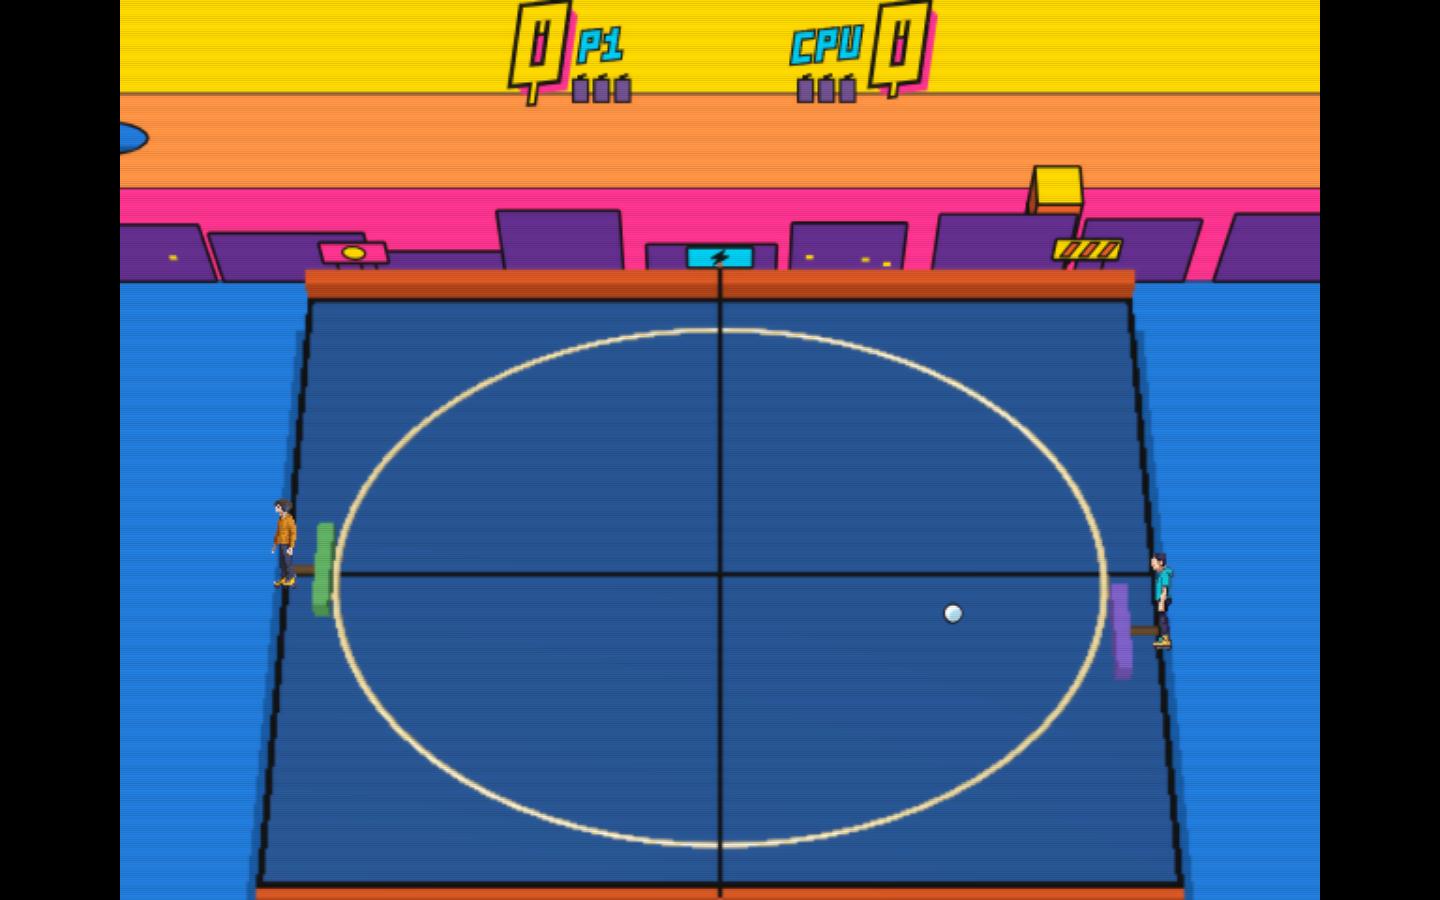
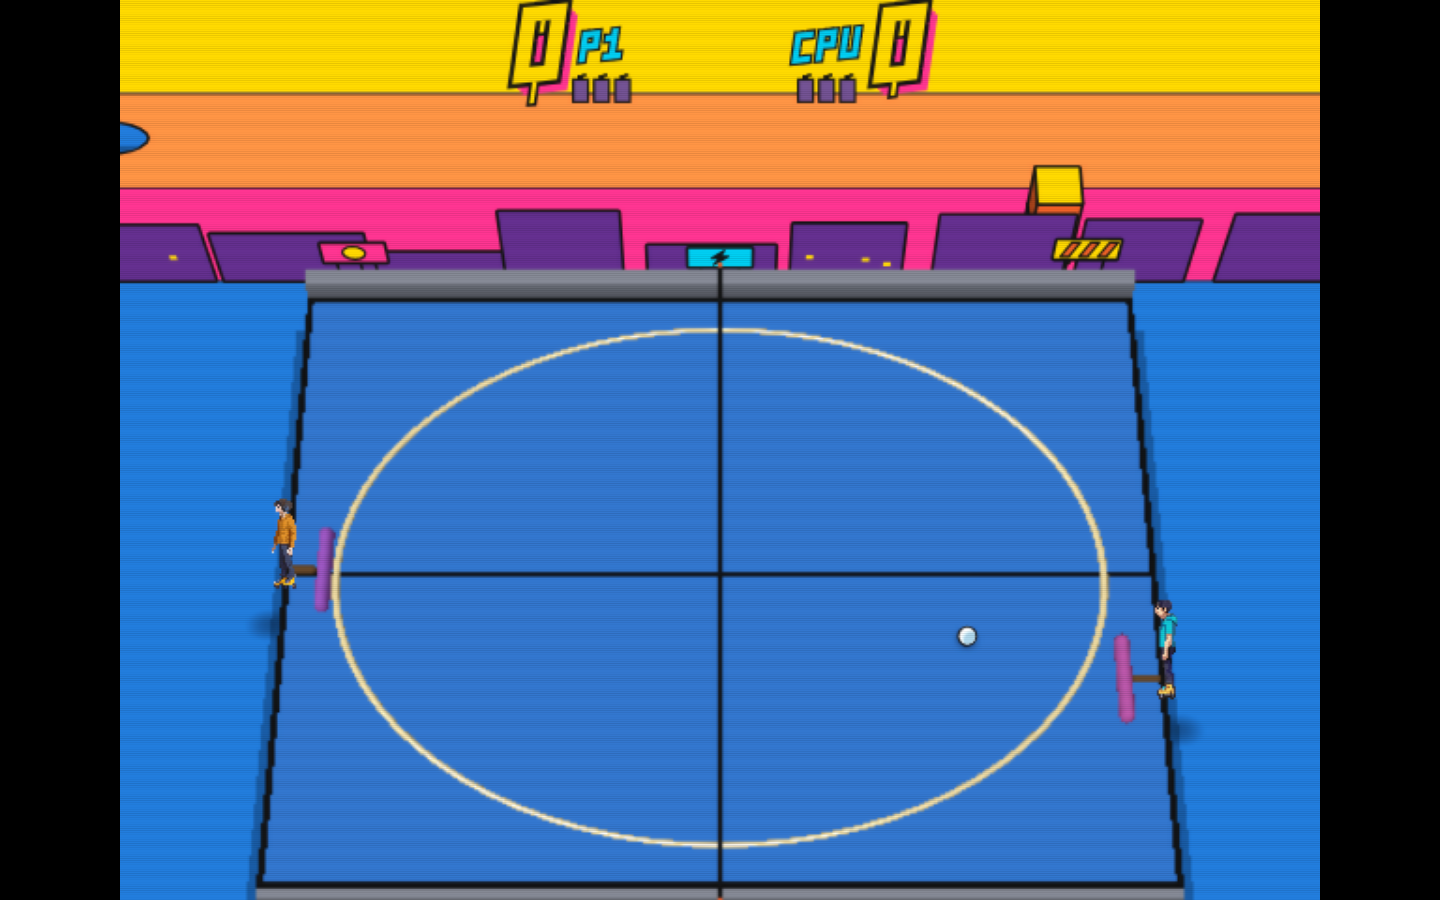
item 1293: the 1999 stage takes over the slab material era 6 hands it
Era 6's fieldSetup (landed while this ran) puts its own textured material on
the slab mesh, so parts.surfaceMat is no longer what the table is painted with:
era 7 dresses parts.slab.material when the two differ, sets its colour rather
than stacking a second emissive lift on era 6's (which blew the table out to a
field mean of 203 of 255), and takes the N64 grain off every frame. Final
after-frame: field colours 19564, mean brightness 121.2, brightest pixel on the
ball. Lessons page updated with both wrong turns.

diff --git a/src/eras/era7-dreamcast.js b/src/eras/era7-dreamcast.js
@@ -68,6 +68,9 @@
   // remembered for. See docs/lessons/era7-dreamcast.md.
   var STAGE = {
     slab: { lift: '#10407e', specular: '#9ad7ff', shininess: 90 },
+    // The same stage, when era 6 handed the slab mesh a material of its own: the
+    // colour is ours to set there, so the lift only has to carry the gleam.
+    stage: { colour: '#2f74d6', lift: '#08203f', specular: '#9ad7ff', shininess: 90 },
     net: { colour: '#eaf6ff', lift: '#2b5f92', specular: '#ffffff', shininess: 60 },
     // The bats keep the colour the session earned (R4), so their lift is only a
     // little off black and their gleam is grey: a white specular at the
@@ -436,7 +439,15 @@
     return true;
   }
 
-  var stage = { mats: null, ring: null };
+  /** Take a texture map off a shared material: the 1999 picture is clean and sharp. */
+  function clearGrain(mat) {
+    if (!mat || !mat.map) return false;
+    mat.map = null;
+    if (mat.needsUpdate !== undefined) mat.needsUpdate = true;
+    return true;
+  }
+
+  var stage = { mats: null, slabMat: null, ring: null };
 
   /**
    * This era's work inside the shared 3D scene, called from draw() before
@@ -454,15 +465,31 @@
       try { six.fieldSetup(I, state); } catch (e) { /* era 6 owns its own errors */ }
     }
     var p = I.parts;
-    var fresh = stage.mats !== p.surfaceMat;
+    // Era 6 (which ran just above) may have put its own textured material on the
+    // slab mesh, so the material to dress is the one the mesh is wearing NOW.
+    var slabMat = p.slab && p.slab.material ? p.slab.material : p.surfaceMat;
+    var fresh = stage.mats !== p.surfaceMat || stage.slabMat !== slabMat;
     if (fresh) {
       dress(p.surfaceMat, STAGE.slab);
+      // Era 6's own slab material is already lifted, so stacking era 7's lift on
+      // it blew the table out to white (measured: field mean 203 of 255). Taking
+      // it over means setting its colour -- which is safe, because pose() writes
+      // only `surfaceMat.color`, not the mesh's material when era 6 replaced it.
+      if (slabMat !== p.surfaceMat) dress(slabMat, STAGE.stage);
+      stage.slabMat = slabMat;
       dress(p.netMat, STAGE.net);
       if (p.bats) ['left', 'right'].forEach(function (s) { if (p.bats[s]) dress(p.bats[s].mat, STAGE.bat); });
       dress(p.ballMat, STAGE.ball);
       stage.ring = addRing(I);
       stage.mats = p.surfaceMat;
     }
+    // Era 6's fieldSetup ran first (above) and lays the Nintendo 64's grain over
+    // the slab. Era 7 is the rung where the picture got sharp, so the 1999 stage
+    // takes it off again -- every frame, because era 6 puts it back on every
+    // frame. This is the "then apply your own change on top" half of the brief.
+    clearGrain(p.surfaceMat);
+    clearGrain(slabMat);
+    clearGrain(p.ballMat);
     // The ball is hidden only when era 7 is the era being drawn. Era 8 calls
     // this function to carry era 7's field forward (item 1295), and era 8 draws
     // no ball of its own -- hiding it there would take the ball off the table.

diff --git a/docs/lessons/era7-dreamcast.md b/docs/lessons/era7-dreamcast.md
@@ -200,11 +200,22 @@ is also, today, the only thing that cleans up after this era (below).
   with `parts.ballMat.opacity = 0` and hands it straight back the moment `T.field` returns, so no
   other era can ever meet it hidden. "Restore it when another era draws" cannot be implemented by
   the era that hid it: it is not running then.
-- **Cleaning up after yourself is the lighting knob.** Changing `lighting` makes the layer rebuild
-  every material and empty its group, disposing of anything an era added. Era 7 is the only era
-  asking for `'phong'`, so its ring and its lift go when the machine moves on. **If a second era
-  ever picks the same lighting model, that cleanup stops happening** and both will need a real
-  teardown hook. `fieldSetup` notices a rebuild by the material objects being new ones.
+- **There is no teardown, and the chain relies on that.** Changing `lighting` makes the layer
+  rebuild every material and empty its group, disposing of anything an era added -- which is the
+  only cleanup there is. Coming up from era 6 (`'lambert'`) that rebuild happens, so era 7 starts
+  from clean parts. Going on to era 8 it does **not**: era 8 asks for `'phong'` too, and it calls
+  era 7's own `fieldSetup` on purpose, to carry this field forward. So era 7's ring and its lift
+  are still there on the PS2, by the chain's design rather than by accident. The one thing that
+  must not carry is the hidden ball: era 8 draws no ball of its own, so era 7 hides the layer's
+  ball **only on frames whose era is 7**, and a test pins it.
+- **Dress the material the mesh is wearing now.** Era 6's `fieldSetup` runs first (era 7 calls it)
+  and hands the slab mesh a textured material of its own, so `parts.surfaceMat` is no longer what
+  the table is painted with. Era 7 dresses `parts.slab.material` when the two differ, and takes the
+  Nintendo 64's grain off every frame, because era 6 puts it back every frame. Two readings from
+  getting this wrong: with era 6's material left alone the table stayed a dark N64 checker (field
+  mean 81.6), and with era 7's emissive lift stacked on top of era 6's own the table blew out to
+  near-white (**203** of 255). Setting that material's *colour* is what works -- safe, because
+  `pose()` writes only `surfaceMat.color`.
 
 **What the change is worth, measured** -- same frame, the field band only (the table, under the sky
 and above the near lip):
@@ -212,7 +223,7 @@ and above the near lip):
 | | distinct colours | mean brightness | brightest pixel in the frame |
 | --- | --- | --- | --- |
 | before (cel) | 7,500 | 72.4 | 249, 238, 233 -- **not** on the ball |
-| after (1999) | 17,855 | 97.7 | 254, 254, 254 -- **on the ball itself** |
+| after (1999) | 19,564 | 121.2 | 253, 254, 254 -- **on the ball itself** |
 
 The colour count is the reading that separates the two looks: flat poster fills against real smooth
 shading. Nothing reaches a pure 255 because the display's tube overlay tints the whole page, so R1
